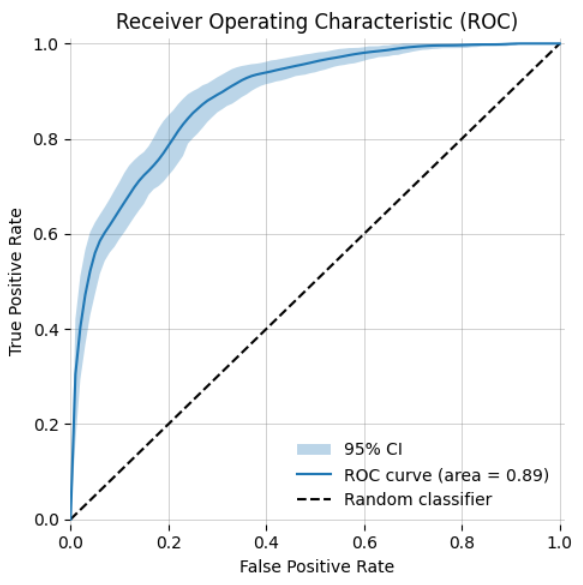
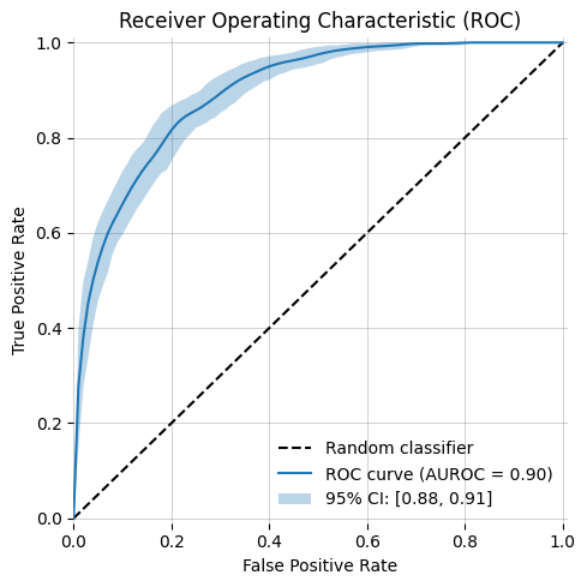
improve roc curve

diff --git a/src/binary_classifier.py b/src/binary_classifier.py
@@ -1,12 +1,15 @@
 import matplotlib.pyplot as plt
 from matplotlib.colors import to_rgba
+from matplotlib.figure import Figure
 import seaborn as sns
 import numpy as np
 import pandas as pd
 import torch
 from sklearn.metrics import confusion_matrix, classification_report, ConfusionMatrixDisplay, roc_curve, auc, accuracy_score
 from sklearn.calibration import calibration_curve
+from sklearn.utils import resample
 from pathlib import Path
+from tqdm import tqdm
 
 
 
@@ -195,26 +198,54 @@ def plot_classification_report(y_test: torch.Tensor,
 
 
 def plot_roc_curve(
-                y_true: torch.Tensor, 
-                y_score: torch.Tensor, 
-                figsize=(5,5), 
-                save_fig_path=None, 
-                confidence_intervals: float=0.95, 
-                n_bootstraps=None,
-                highlight_area=True):
+        y_true: np.ndarray, 
+        y_score: np.ndarray, 
+        figsize=(5,5), 
+        save_fig_path=None, 
+        confidence_interval: float=0.95, 
+        highlight_roc_area=True, 
+        n_bootstraps=None) -> Figure:
+    """
+    Creates a ROC curve for a binary classifier. Includes the option for bootstrapping.
+
+    Parameters
+    ----------
+    y_true : np.ndarray
+        The actual labels of the data. Either 0 or 1.
+    y_score : np.ndarray
+        The output scores of the classifier. Between 0 and 1.
+    figsize : tuple, optional
+        The size of the figure. By default (5,5).
+    save_fig_path : str, optional
+        Path to folder where the figure should be saved. If None then plot is not saved, by default None. E.g. 'figures/roc_curve.png'.
+    confidence_interval : float, optional
+        The confidence interval to use for the calibration plot. By default 0.95. Between 0 and 1. Has no effect when not using n_bootstraps.
+    highlight_roc_area : bool, optional
+        Whether to highlight the area under the ROC curve. By default True. Has no effect when using n_bootstraps.
+    n_bootstraps : int, optional
+        Number of bootstrap samples to use for the calibration plot. Recommended minimum: 1000, moderate: 5000-10000, high: 50000-100000.
+        If None, then no bootstrapping is done. By default None.
+
+    Returns
+    -------
+    fig : matplotlib.pyplot figure
+        The figure of the calibration plot
+    """
+    
     # create figure
-    fig = plt.figure(figsize=(5,5))
+    fig = plt.figure(figsize=figsize)
     ax = fig.add_subplot(111)
     
     if n_bootstraps is None:
         base_fpr, mean_tprs, thresholds = roc_curve(y_true, y_score)
         mean_auc = auc(base_fpr, mean_tprs)
-        if highlight_area is True:
+        if highlight_roc_area is True:
             plt.fill_between(base_fpr, 0, mean_tprs, alpha=0.2, zorder=2)
+        if confidence_interval is not None:
+            print('Warning: confidence_intervals is not None, but n_bootstraps is None. Confidence intervals will not be plotted.')
     else:
         # Bootstrapping for AUROC
-        bootstrap_aucs = []
-        bootstrap_tprs = []
+        bootstrap_aucs, bootstrap_tprs = [], []
         base_fpr = np.linspace(0, 1, 101)
         for _ in tqdm(range(n_bootstraps), desc='Bootstrapping'):
             indices = resample(np.arange(len(y_true)), replace=True)
@@ -230,20 +261,33 @@ def plot_roc_curve(
         mean_auc = np.mean(bootstrap_aucs)
         tprs = np.array(bootstrap_tprs)
         mean_tprs = tprs.mean(axis=0)
-        
-        tprs_upper = np.quantile(tprs, 0.025, axis=0)
-        tprs_lower = np.quantile(tprs, 0.975, axis=0)
+
+        # visualize confidence intervals
+        if confidence_interval is not None:
+            CI_upper = confidence_interval + (1-confidence_interval)/2
+            CI_lower = (1-confidence_interval)/2
+            tprs_upper = np.quantile(tprs, CI_upper, axis=0)
+            tprs_lower = np.quantile(tprs, CI_lower, axis=0)
+            auc_upper = np.quantile(bootstrap_aucs, CI_upper)
+            auc_lower = np.quantile(bootstrap_aucs, CI_lower)
+            label = f'{confidence_interval:.0%} CI: [{auc_lower:.2f}, {auc_upper:.2f}]'
+            plt.fill_between(base_fpr, tprs_lower, tprs_upper, alpha=0.3, label=label, zorder=2)
+            
+        if highlight_roc_area is True:
+            print('Warning: highlight_roc_area is True, but n_bootstraps is not None. The area under the ROC curve will not be highlighted.')
     
-        plt.fill_between(base_fpr, tprs_lower, tprs_upper, alpha=0.3, label='95% CI', zorder=2)
-    
-    plt.plot(base_fpr, mean_tprs, label=f'ROC curve (area = {mean_auc:.2f})', zorder=3)
+    plt.plot(base_fpr, mean_tprs, label=f'ROC curve (AUROC = {mean_auc:.2f})', zorder=3)
     plt.plot([0, 1], [0, 1], 'k--', label='Random classifier')
     plt.xlim([0.0, 1.01])
     plt.ylim([-0.01, 1.01])
     plt.xlabel('False Positive Rate')
     plt.ylabel('True Positive Rate')
     plt.title('Receiver Operating Characteristic (ROC)')
-    plt.legend(loc="lower right", frameon=False)
+    # reverse legend entry order
+    handles, labels = plt.gca().get_legend_handles_labels()
+    handles = handles[::-1]
+    labels = labels[::-1]
+    plt.legend(handles, labels, loc="lower right", frameon=False)
     ax.spines[:].set_visible(False)
     ax.grid(True, linestyle='-', linewidth=0.5, color='grey', alpha=0.5)
     ax.set_yticks(np.arange(0, 1.1, 0.2))
